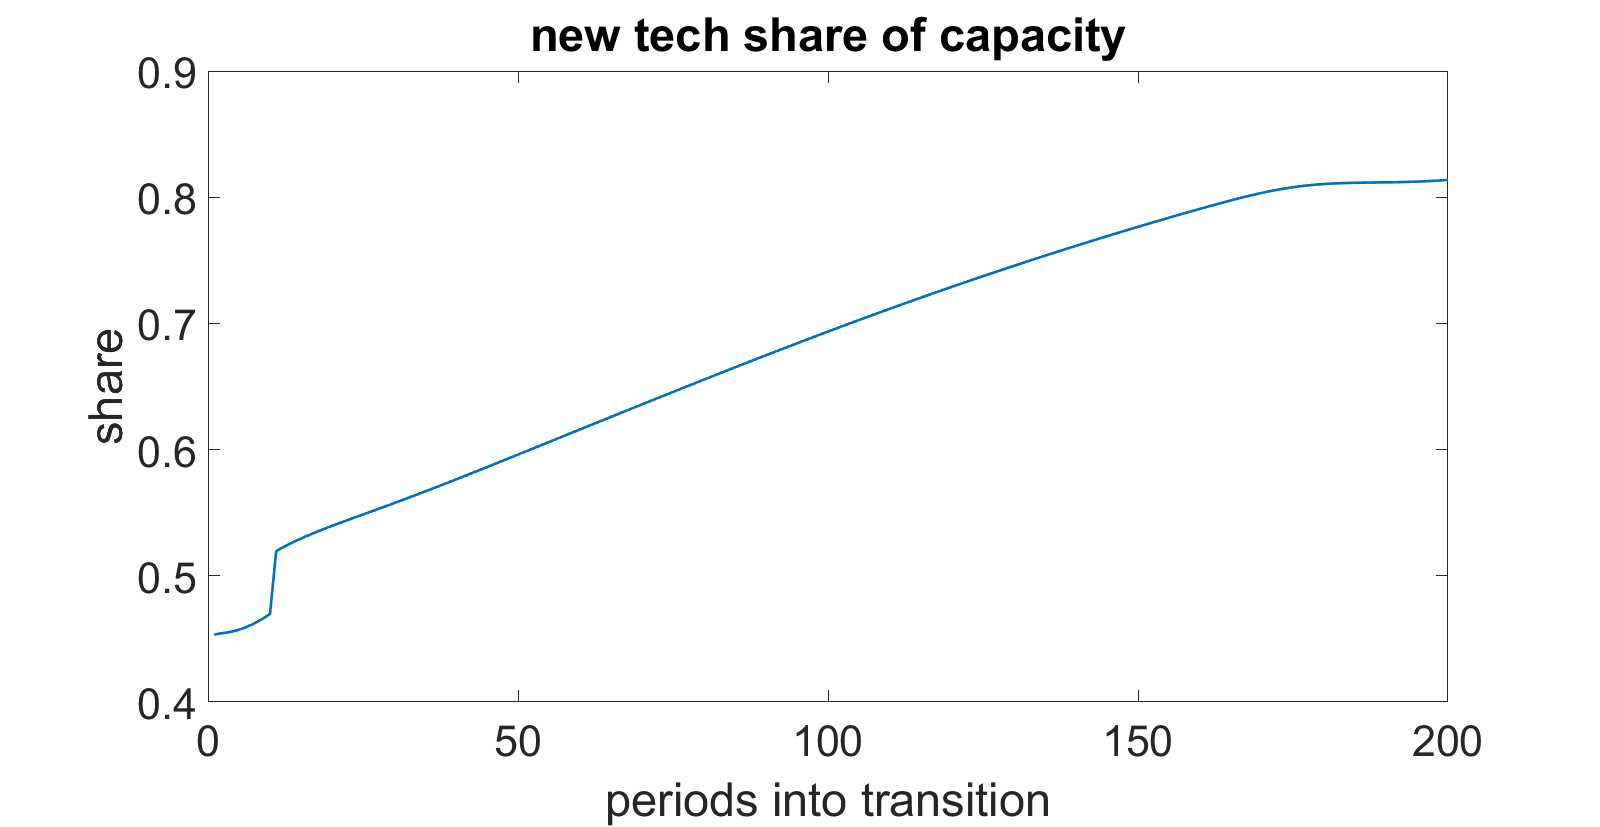
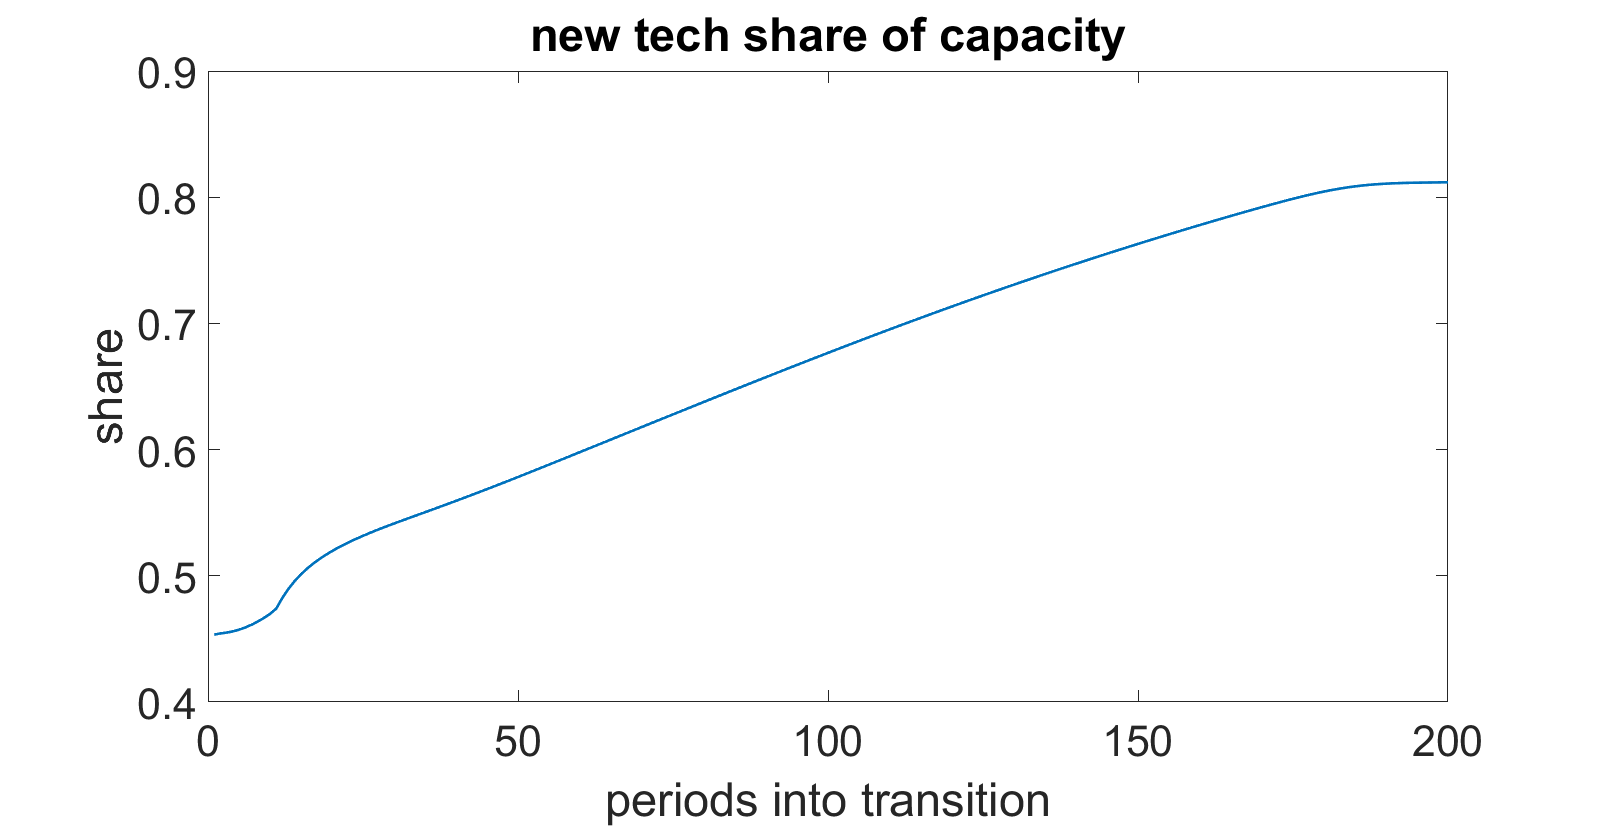
gas coal results updated

diff --git a/PP_AoT_coal_gas.m b/PP_AoT_coal_gas.m
@@ -374,7 +374,7 @@ ScSz = get(0, 'ScreenSize');
 
 figure(9)
 plot([cap_new1(1:diff_gr_t)./(cap_old1(1:diff_gr_t)+cap_new1(1:diff_gr_t))...
-    cap_new(diff_gr_t+1:end)./(cap_old(diff_gr_t+1:end)+cap_new(diff_gr_t+1:end))],LineWidth=2)
+    cap_new(2:end-diff_gr_t+1)./(cap_old(2:end-diff_gr_t+1)+cap_new(2:end-diff_gr_t+1))],LineWidth=2)
 xlabel('periods into transition'), ylabel('share')
 title('new tech share of capacity')
 set(gca,'Fontsize',32)
@@ -386,14 +386,14 @@ growth_t_line(1:diff_gr_t) = linspace(1,diff_gr_t,diff_gr_t);
 tech_dist_vec   = (1+diff_gr).^growth_t_line*diff_gr_cons;
 figure(10)
 plot(tech_dist_vec.^(1/(1-alpha)).*[(cap_old1(1:diff_gr_t)+cap_new1(1:diff_gr_t)) ...
-    (cap_old(diff_gr_t+1:end)+cap_new(diff_gr_t+1:end))],LineWidth=2)
+    (cap_old(2:end-diff_gr_t+1)+cap_new(2:end-diff_gr_t+1))],LineWidth=2)
 xlabel('periods into transition'), ylabel('capacity')
 title('total capacity (detrended)')
 set(gca,'Fontsize',32)
 set(gcf,'position',[0,0,ScSz(3),ScSz(4)]);
 
 figure(11)
-plot([p_E_vec1(1:diff_gr_t) p_E_vec(diff_gr_t+1:end)],LineWidth=2)
+plot([p_E_vec1(1:diff_gr_t) p_E_vec(2:end-diff_gr_t+1)],LineWidth=2)
 xlabel('periods into transition'), ylabel('price')
 title('price path')
 set(gca,'Fontsize',32)
@@ -408,7 +408,7 @@ yyaxis left
 plot(tech_dist_vec,'LineWidth',2)
 ylabel('tech diff path')
 yyaxis right
-plot([e0_n_vec_1step(1:diff_gr_t) e0_n_vec(1:end-diff_gr_t)],'LineWidth',2)
+plot([e0_n_vec_1step(1:diff_gr_t) e0_n_vec(2:end-diff_gr_t+1)],'LineWidth',2)
 ylabel('gas supply shock')
 %xlim([pl1 pl2])
 xlabel('periods into transition')
